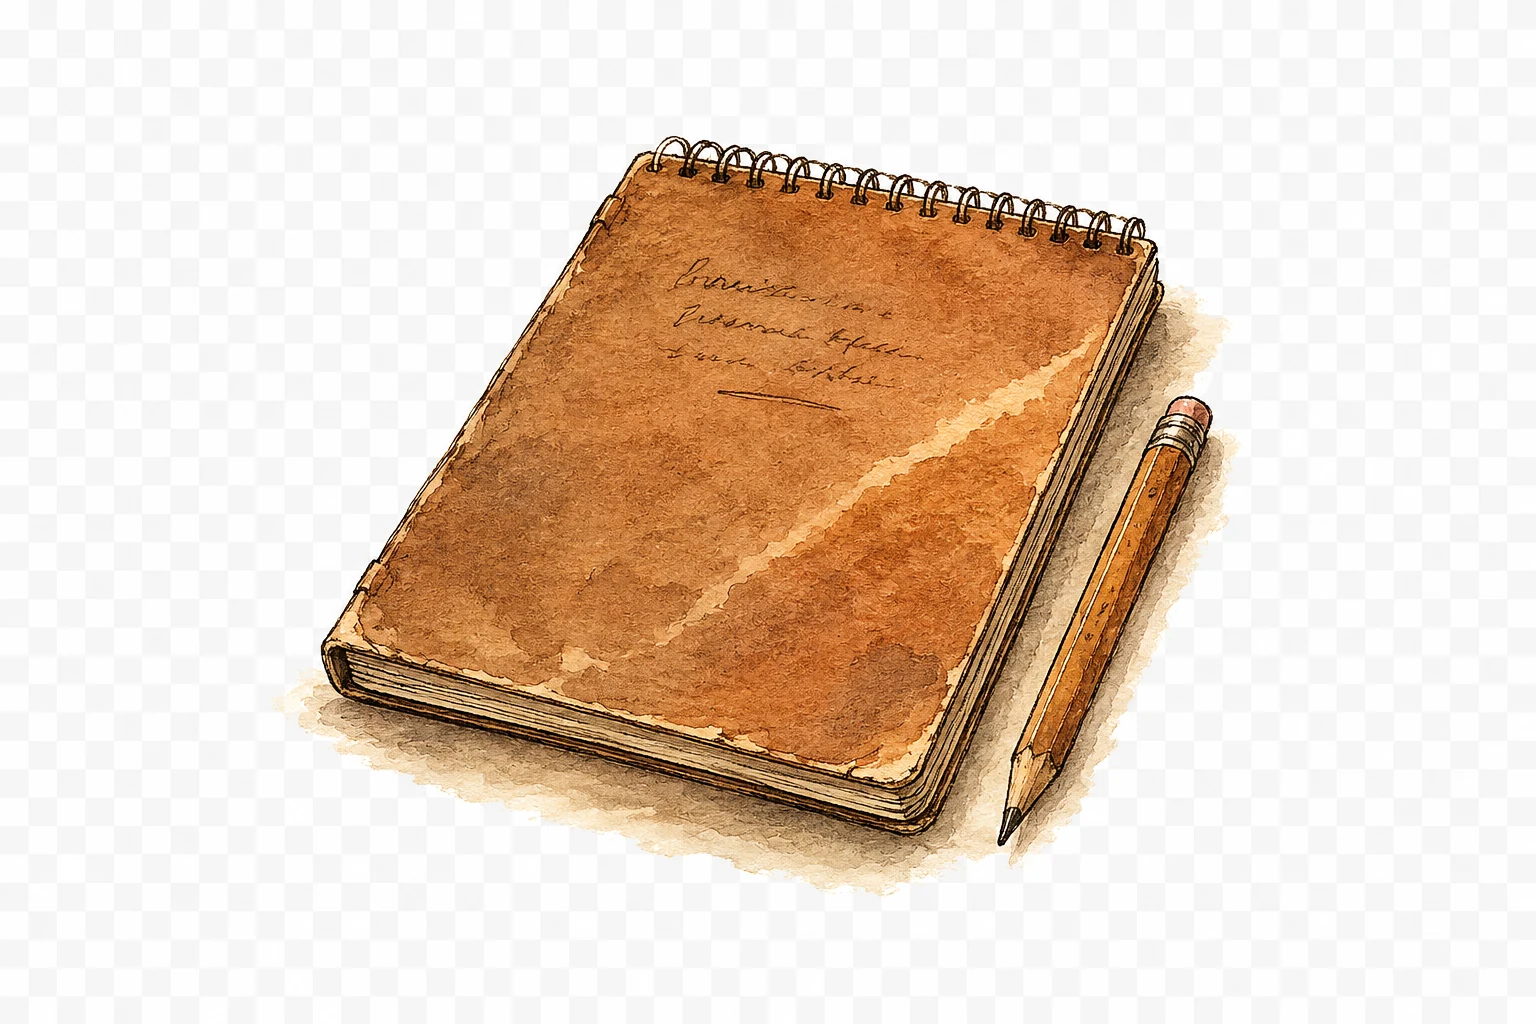
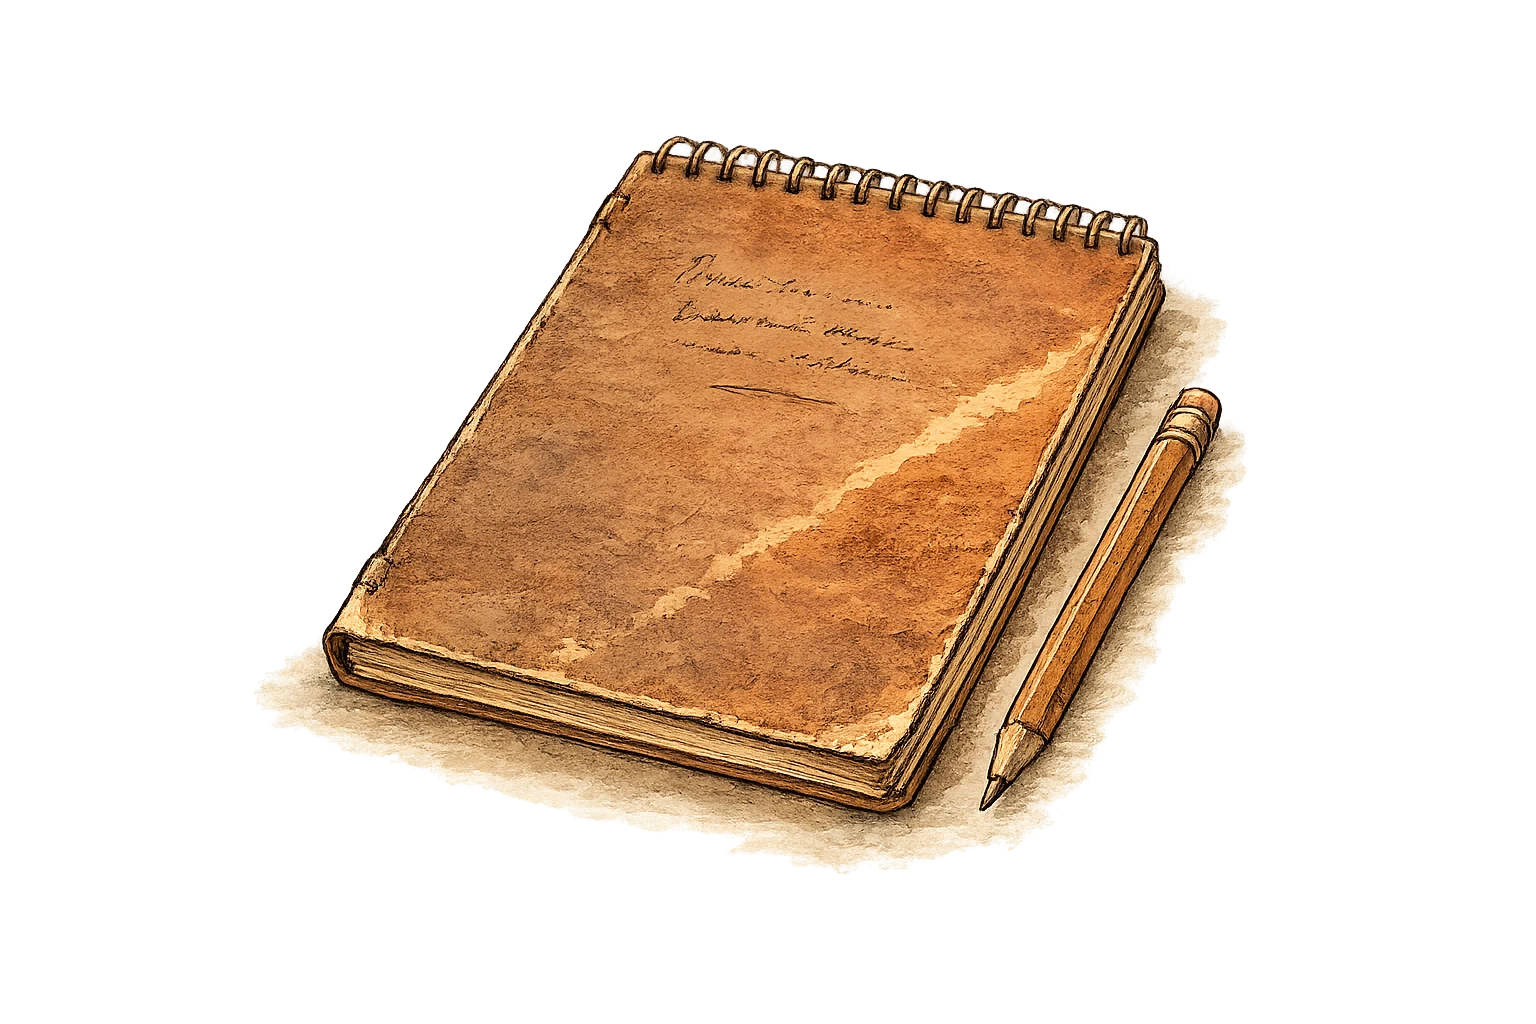
feat: wire corkboard + transparent notebook; align hub interactive items
New transparent assets compressed (alpha-safe) and used:
- bedroom-p1-corkboard-empty.webp -> People hotspot becomes a real overlay
- bedroom-p1-notebook.webp re-exported WITH transparency -> Logbook is now a
  proper object overlay (was an invisible region while the old export was an
  opaque box)

Realigned + rescaled all bedroom hub hotspots against the base painting:
phone / wallet / notebook sit on the desk surface, catalogue + pack lower-left,
corkboard on the upper-left wall; window / bed / door stay as invisible regions.
Tuned in-browser. Harness 0 exceptions.

Changed region(s): [[0.1562, 0.125, 0.8125, 0.875]]

diff --git a/index.html b/index.html
@@ -1309,6 +1309,7 @@ const ASSETS = {
   'bedroom-p1-phone-dark':     'assets/hub/bedroom-p1-phone-dark.webp',
   'bedroom-p1-phone-lit':      'assets/hub/bedroom-p1-phone-lit.webp',
   'bedroom-p1-notebook':       'assets/hub/bedroom-p1-notebook.webp',
+  'bedroom-p1-corkboard-empty':'assets/hub/bedroom-p1-corkboard-empty.webp',
   'bedroom-p1-backpack-empty': 'assets/hub/bedroom-p1-backpack-empty.webp',
   'bedroom-p1-backpack-packed':'assets/hub/bedroom-p1-backpack-packed.webp',
   'bedroom-p1-catalogue':      'assets/hub/bedroom-p1-catalogue.webp',
@@ -2366,20 +2367,18 @@ function renderBedroomHub(){
   const packed = (S.loadout||[]).length>0;
   const rich   = (S.cash||0)>=200;
   const objs = [
-    {asset:`bedroom-p1-phone-${hasBk?'lit':'dark'}`,         label:'Phone',  action:'openPhone()',    x:48, y:69, w:12},
-    {asset:`bedroom-p1-wallet-${rich?'thick':'thin'}`,       label:'Wallet', action:'openWallet()',   x:39, y:71, w:8},
-    {asset:'bedroom-p1-catalogue',                           label:'Shop',   action:'openShop()',     x:30, y:82, w:13},
-    {asset:`bedroom-p1-backpack-${packed?'packed':'empty'}`, label:'Pack',   action:'openBackpack()', x:15, y:82, w:15},
+    {asset:`bedroom-p1-phone-${hasBk?'lit':'dark'}`,         label:'Phone',   action:'openPhone()',    x:47, y:70, w:12},
+    {asset:'bedroom-p1-notebook',                            label:'Logbook', action:'renderLog()',    x:63, y:70, w:14},
+    {asset:`bedroom-p1-wallet-${rich?'thick':'thin'}`,       label:'Wallet',  action:'openWallet()',   x:52, y:75, w:7},
+    {asset:'bedroom-p1-catalogue',                           label:'Shop',    action:'openShop()',     x:32, y:84, w:11},
+    {asset:`bedroom-p1-backpack-${packed?'packed':'empty'}`, label:'Pack',    action:'openBackpack()', x:16, y:84, w:15},
+    {asset:'bedroom-p1-corkboard-empty',                     label:'People',  action:'openCorkboard()',x:11, y:36, w:19},
   ];
-  // NOTE: bedroom-p1-notebook.webp shipped without alpha (renders as an opaque box),
-  // so the Logbook is an invisible region over the books painted on the desk for now —
-  // swap back to an overlay once a transparent notebook export lands.
+  // Window / bed / door are painted into the base — invisible hotspot regions over them.
   const regions = [
-    {region:true, label:'Logbook',  action:'renderLog()',      x:60, y:69, w:11, h:12},
     {region:true, label:'Forecast', action:'renderForecast()', x:49, y:33, w:36, h:44},
-    {region:true, label:'Rest',     action:'openRest()',       x:12, y:72, w:20, h:28},
-    {region:true, label:'People',   action:'openCorkboard()',  x:10, y:24, w:16, h:26},
-    {region:true, label:'Leave',    action:'goMenu()',         x:95, y:52, w:10, h:84},
+    {region:true, label:'Rest',     action:'openRest()',       x:12, y:70, w:19, h:26},
+    {region:true, label:'Leave',    action:'goMenu()',         x:95, y:52, w:9,  h:84},
   ];
   const spots  = objs.concat(regions).map(hubSpot).join('');
   const tag    = `<div class="hub-tag">${dayTag()}${S.weather?' · '+S.weather.name:''}</div>`;